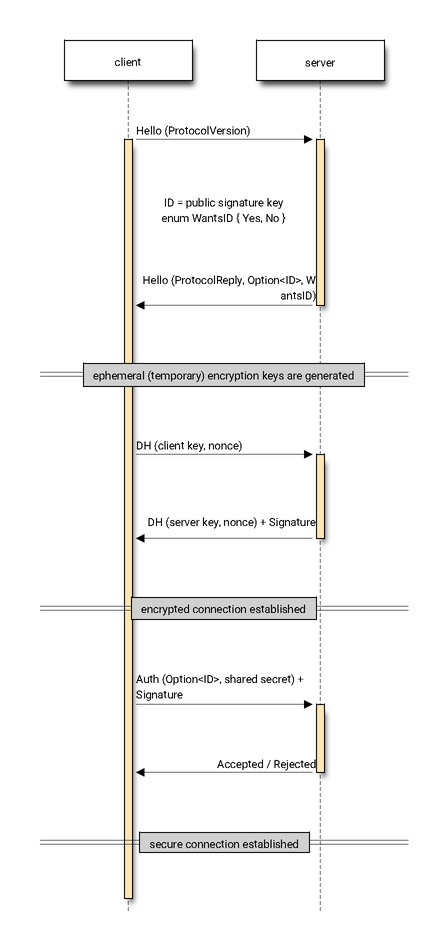
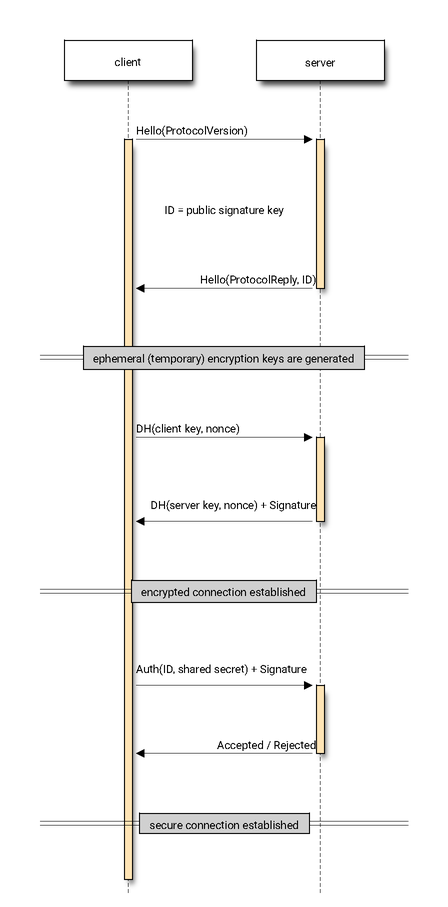
w

diff --git a/src/connection.rs b/src/connection.rs
@@ -2,7 +2,7 @@ use rand::rngs::OsRng;
 use rand::RngCore;
 
 use crate::dh::{EncryptionKeyPair, EncryptionPubKey};
-use crate::proto::{ClientSays, ServerSays, UnsignedDH, ProtocolVersion, ProtocolReply};
+use crate::proto::{ClientSays, ServerSays, UnsignedDH, ProtocolVersion};
 use crate::signature::{SigningKeyPair, SigningPubKey};
 use crate::util::{Stream, StreamWrapper};
 use crate::Error;
@@ -11,7 +11,7 @@ use crate::Error;
 #[derive(Debug)]
 pub struct SecureConnection<T: Stream> {
     id: SigningKeyPair,
-    other_id: Option<SigningPubKey>,
+    other_id: SigningPubKey,
     stream: StreamWrapper<T>,
 }
 
@@ -48,26 +48,22 @@ impl<T: Stream> Connection<T> {
     /// (think: certificate pinning).
     pub async fn client_side_upgrade(
         mut self,
-        other: Option<SigningPubKey>,
+        other_id: Option<SigningPubKey>,
         proto_version: ProtocolVersion
     ) -> Result<SecureConnection<T>, Error> {
         send!(self, ClientSays::Hello(proto_version));
 
         let server_id = match recv!(self) {
-            ServerSays::Hello(p, server_id) => {
+            ServerSays::Hello(p, real_id) => {
                 if p != proto_version.reply() {
                     return Err(Error::Logic);
                 }
-                if let Some(expected) = other {
-                    if let Some(real) = server_id {
-                        if expected != real {
+                if let Some(expected_id) = other_id {
+                        if expected_id != real_id {
                             return Err(Error::Rejected);
                         }
-                    } else {
-                        return Err(Error::Rejected);
-                    }
                 }
-                server_id
+                real_id
             }
             _ => return Err(Error::Logic),
         };
@@ -90,7 +86,7 @@ impl<T: Stream> Connection<T> {
         let shared = keys.dh(&server_key);
         let secure = SecureConnection {
             id: self.id,
-            other_id: Some(server_id),
+            other_id: server_id,
             stream: self.stream,
         };
 
@@ -116,7 +112,7 @@ impl<T: Stream> Connection<T> {
 
         send!(
             self,
-            ServerSays::Hello(proto_version.reply(), Some(self.id.public()))
+            ServerSays::Hello(proto_version.reply(), self.id.public())
         );
 
         let (client_key, nonce) = match recv!(self) {
@@ -131,9 +127,9 @@ impl<T: Stream> Connection<T> {
 
         return Ok(SecureConnection {
             id: self.id,
-            other_id: Some(SigningPubKey {
+            other_id: SigningPubKey {
                 public_key: [0; 32],
-            }),
+            },
             stream: self.stream,
         });
     }

diff --git a/src/proto.rs b/src/proto.rs
@@ -3,23 +3,23 @@ use protocol_derive::Protocol;
 use crate::dh::EncryptionPubKey;
 use crate::signature::{Signature, SigningPubKey};
 
-#[derive(Debug, PartialEq, Protocol)]
-pub struct UnsignedDH(pub EncryptionPubKey, pub u32);
-
 /// Message signaling supported protocol version.
 ///
 /// Different values are used in case of connecting to an echo server.
-#[derive(Debug, PartialEq, Protocol)]
+#[derive(Debug, PartialEq, Protocol, Clone, Copy)]
 pub struct ProtocolVersion(pub u64);
 
 impl ProtocolVersion {
     pub fn reply(&self) -> ProtocolReply {
-        ProtocolReply(self.0.wrapping_add(1));
+        ProtocolReply(self.0.wrapping_add(1))
     }
 }
 
-#[derive(Debug, PartialEq, Protocol)]
+#[derive(Debug, PartialEq, Protocol, Clone, Copy)]
 pub struct ProtocolReply(u64);
+
+#[derive(Debug, PartialEq, Protocol)]
+pub struct UnsignedDH(pub EncryptionPubKey, pub u32);
 
 #[derive(Debug, PartialEq, Protocol)]
 #[protocol(discriminant = "integer")]
@@ -31,6 +31,6 @@ pub enum ClientSays {
 #[derive(Debug, PartialEq, Protocol)]
 #[protocol(discriminant = "integer")]
 pub enum ServerSays {
-    Hello(ProtocolReply, Option<SigningPubKey>),
+    Hello(ProtocolReply, SigningPubKey),
     DH(UnsignedDH, Signature<UnsignedDH>),
 }
